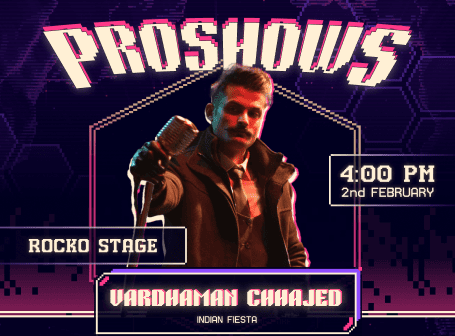
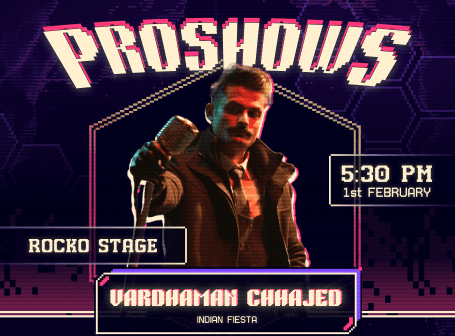
abhi bhi content pura nhi hua :(

diff --git a/src/app/events/proshows/page.jsx b/src/app/events/proshows/page.jsx
@@ -15,8 +15,8 @@ import ComingSoon from "../_Components/comingsoon";
 const images = [
   { src: "/events low res/proshows 1.png", day:"Day 2 - Crescendo", location: "Rocko Stage",loaclink:"https://www.google.com/maps/place/Cricket+Field,+Amingaon,+Guwahati,+Namati+Jalah,+Assam+781039/@26.189375,91.6927851,16.55z/data=!4m6!3m5!1s0x375a5ae98eaac1d3:0xb81bf49e19c882c6!8m2!3d26.1906031!4d91.6970283!16s%2Fg%2F11b8th1twm?entry=ttu&g_ep=EgoyMDI1MDEyNi4wIKXMDSoASAFQAw%3D%3D", name: "Caracal",time: "1 Feb, 4:30 PM", description: "Brace yourself for an electrifying night as Caracal Band sets the stage on fire with their high-energy performance. Get lost in their powerful riffs, intense beats, and mesmerizing melodies! 🎸" },
   { src: "/events low res/proshows 2.png", day:"Day 3 - Blitzkrieg", location: "Rocko Stage",loaclink:"https://www.google.com/maps/place/Cricket+Field,+Amingaon,+Guwahati,+Namati+Jalah,+Assam+781039/@26.189375,91.6927851,16.55z/data=!4m6!3m5!1s0x375a5ae98eaac1d3:0xb81bf49e19c882c6!8m2!3d26.1906031!4d91.6970283!16s%2Fg%2F11b8th1twm?entry=ttu&g_ep=EgoyMDI1MDEyNi4wIKXMDSoASAFQAw%3D%3D", name: "Black Rhythm",time: "2 Feb, 4:00 PM", description: "Get ready for an electrifying performance by Black Rhythm, a powerhouse of music and energy. Their dynamic beats and captivating stage presence will leave you grooving to an unforgettable rhythm!" },
-  { src: "/events low res/proshows 3.png", day:"Day 3 - Blitzkrieg", location: "Rocko Stage",loaclink:"https://www.google.com/maps/place/Cricket+Field,+Amingaon,+Guwahati,+Namati+Jalah,+Assam+781039/@26.189375,91.6927851,16.55z/data=!4m6!3m5!1s0x375a5ae98eaac1d3:0xb81bf49e19c882c6!8m2!3d26.1906031!4d91.6970283!16s%2Fg%2F11b8th1twm?entry=ttu&g_ep=EgoyMDI1MDEyNi4wIKXMDSoASAFQAw%3D%3D", name: "Vardhaman Chhajed",time: "2 Feb, 4:00 PM", description: "Witness a mesmerizing performance by Vardhaman Chajjer, a musical talent known for his soulful melodies and captivating stage presence. Let his enchanting tunes take you on an unforgettable musical journey" },
-  { src: "/events low res/proshows 4.png", day:"Day 3 - Blitzkrieg", location: "Rocko Stage",loaclink:"https://www.google.com/maps/place/Cricket+Field,+Amingaon,+Guwahati,+Namati+Jalah,+Assam+781039/@26.189375,91.6927851,16.55z/data=!4m6!3m5!1s0x375a5ae98eaac1d3:0xb81bf49e19c882c6!8m2!3d26.1906031!4d91.6970283!16s%2Fg%2F11b8th1twm?entry=ttu&g_ep=EgoyMDI1MDEyNi4wIKXMDSoASAFQAw%3D%3D", name: "Shaurya Mehta",time: "2 Feb, 4:00 PM", description: "Explore a literary wonderland at Alcheringa's Book Fair, where you’ll find books from all genres. From captivating fiction to insightful non-fiction, there's something for every reader. Meet authors, discover new releases, and indulge in your love for books. A paradise for book enthusiasts! 📚✨" },
+  { src: "/events low res/proshows 3.png", day:"Day 2 - Crescendo", location: "Rocko Stage",loaclink:"https://www.google.com/maps/place/Cricket+Field,+Amingaon,+Guwahati,+Namati+Jalah,+Assam+781039/@26.189375,91.6927851,16.55z/data=!4m6!3m5!1s0x375a5ae98eaac1d3:0xb81bf49e19c882c6!8m2!3d26.1906031!4d91.6970283!16s%2Fg%2F11b8th1twm?entry=ttu&g_ep=EgoyMDI1MDEyNi4wIKXMDSoASAFQAw%3D%3D", name: "Vardhaman Chhajed",time: "1 Feb, 5:30 PM", description: "Witness a mesmerizing performance by Vardhaman Chajjer, a musical talent known for his soulful melodies and captivating stage presence. Let his enchanting tunes take you on an unforgettable musical journey" },
+  { src: "/events low res/proshows 4.png", day:"Day 2 - Crescendo", location: "Rocko Stage",loaclink:"https://www.google.com/maps/place/Cricket+Field,+Amingaon,+Guwahati,+Namati+Jalah,+Assam+781039/@26.189375,91.6927851,16.55z/data=!4m6!3m5!1s0x375a5ae98eaac1d3:0xb81bf49e19c882c6!8m2!3d26.1906031!4d91.6970283!16s%2Fg%2F11b8th1twm?entry=ttu&g_ep=EgoyMDI1MDEyNi4wIKXMDSoASAFQAw%3D%3D", name: "Shaurya Mehta",time: "2 Feb", description: "Explore a literary wonderland at Alcheringa's Book Fair, where you’ll find books from all genres. From captivating fiction to insightful non-fiction, there's something for every reader. Meet authors, discover new releases, and indulge in your love for books. A paradise for book enthusiasts! 📚✨" },
 ];
 const event = [
   { name: "Proshows", topsubheading: "Flickeringa", contents: "Lorem ipsum dolor sit amet consectetur adipisicing elit. Rerum praesentium, consectetur quaerat illum labore reiciendis odit pariatur eligendi fuga quis optio provident dolorum recusandae et sed autem in iusto sequi." },

diff --git a/src/app/events/_Components/page.jsx b/src/app/events/_Components/page.jsx
@@ -9,7 +9,7 @@ import Link from "next/link";
 import image1 from "./image1.png";
 import image2 from "./image2.png";
 import image3 from "./coming.png";
-import image4 from "./coming.png";
+// import image4 from "/events low res/CD - Events.png";
 import image5 from "./coming.png";
 
 import enter from "./Group39.svg";
@@ -19,8 +19,8 @@ const images = [
   { src: image1, name: "Pronites",link: "/events/pronites", description: "Pronites are the ultimate music experience, featuring electrifying performances by top artists and bands. Get ready for four unforgettable nights of music, dance, and pure energy!" },
   { src: image2, name: "Proshows",link: "/events/proshows", description: "Proshows bring together breathtaking acts and spellbinding performances by world-class entertainers. From jaw-dropping stunts to mesmerizing displays, these shows are bound to leave you awestruck!" },
   { src: image3, name: "Creator's Camp",link: "/events/creators_camp", description: "Creator’s Camp is the hub for innovation and creativity, offering hands-on workshops and insightful sessions with industry experts. Unleash your imagination and learn from the best!" },
-  { src: image4, name: "Critical Damage",link: "/events/critical_damage", description: "Critical Damage is where the energy hits the roof with adrenaline-pumping gaming battles and esports tournaments. Challenge yourself and prove your dominance in this ultimate gaming arena!" },
-  { src: image5, name: "Flickeringa",link: "/events/flickeringa", description: "Flickeringa is the vibrant heart of Alcheringa, brimming with fun, excitement, and unforgettable experiences. Immerse yourself in a world of joy and let your spirit soar!" },
+  { src: "/events low res/CD - Events.png", name: "Critical Damage",link: "/events/critical_damage", description: "Critical Damage is where the energy hits the roof with adrenaline-pumping gaming battles and esports tournaments. Challenge yourself and prove your dominance in this ultimate gaming arena!" },
+  { src: "/events low res/Flickeringa - Events.png", name: "Flickeringa",link: "/events/flickeringa", description: "Flickeringa is the vibrant heart of Alcheringa, brimming with fun, excitement, and unforgettable experiences. Immerse yourself in a world of joy and let your spirit soar!" },
 ];
 
 
@@ -81,7 +81,7 @@ export default function Page() {
             </p>
           </div>
           <div>
-          {(currentIndex === 0||currentIndex === 1) && (
+          
           <Link className={styles.enter} href={images[currentIndex].link}>
             <Image
               src={enter}
@@ -90,7 +90,7 @@ export default function Page() {
               alt="enter button"
             />
           </Link>
-          )}
+          
           </div>
         </div>
         <div className={styles.center}>
@@ -167,7 +167,7 @@ export default function Page() {
                   <p className={styles.descriptionTxt}>{image.description}</p>
                 </div>
                 
-                {(index === 0||index === 1) && (
+               
                 <div className={styles.lower}>
                   <Link className={styles.enter} href={image.link}>
                     <Image
@@ -178,7 +178,6 @@ export default function Page() {
                     />
                   </Link>
                   </div>
-                  )}
                 
               </div>
             ))}

diff --git a/src/app/events/critical_damage/page.jsx b/src/app/events/critical_damage/page.jsx
@@ -12,10 +12,11 @@ import google from "./component/googlelink.svg";
 import frame from "./component/Frame51-o.svg";
 import clock from "./component/Time_light.svg"
 const images = [
-  { src: "/events low res/CD 1.png", day:"Day 2 - Crescendo", location: "Rocko Stage",loaclink:"", name: "Caracal",time: "1 Feb, 4:30 PM", description: "" },
-  { src: "/events low res/CD 2.png", day:"Day 3 - Blitzkrieg", location: "Rocko Stage",loaclink:"", name: "Black Rhythm",time: "2 Feb, 4:00 PM", description: "" },
-  { src: "/events low res/CD 3.png", day:"Day 2 - Crescendo", location: "Rocko Stage",loaclink:"", name: "Vardhaman Chhajed",time: "2 Feb, 4:00 PM", description: "" },
-  { src: "/events low res/CD 4.png", day:"Day 3 - Blitzkrieg", location: "Rocko Stage",loaclink:"", name: "Arjit Singh",time: "2 Feb, 4:00 PM", description: "" },
+  { src: "/events low res/CD 1.png", day:"Day 2 - Crescendo", location: "Online",loaclink:"", name: "BGMI",time: "1 Feb, 4:30 PM", description: "Drop in, loot up, and battle your way to victory! Test your reflexes and strategy in the ultimate battleground where only the strongest survive. Are you ready to claim the Winner Winner Chicken Dinner?" },
+  { src: "/events low res/CD 2.png", day:"Day 3 - Blitzkrieg", location: "Online",loaclink:"", name: "Bullet Echo",time: "2 Feb, 4:00 PM", description: "Stealth, strategy, and sharp shooting collide in this thrilling top-down tactical shooter. Work with your squad, outsmart your enemies, and light up the battlefield—only the best will echo in victory!" },
+  { src: "/events low res/CD 3.png", day:"Day 2 - Crescendo", location: "Online",loaclink:"", name: "Road To Valor",time: "2 Feb, 4:00 PM", description: "Command legendary warriors and clash in epic battles! Build your army, strategize like a true general, and crush your foes to claim the path of glory."},
+  { src: "/events low res/CD 4.png", day:"Day 3 - Blitzkrieg", location: "Online",loaclink:"", name: "Real Cricket 24",time: "2 Feb, 4:00 PM", description: "Experience the thrill of cricket like never before! With realistic gameplay and intense matches, step onto the pitch and prove your skills as the ultimate cricket champion." },
+  { src: "/events low res/CD 4.png", day:"Day 3 - Blitzkrieg", location: "Online",loaclink:"", name: "Cookie Run India",time: "2 Feb, 4:00 PM", description: " Run, jump, and slide through a world of sweet surprises! Master tricky obstacles, race against rivals, and bake your way to victory in this deliciously fast-paced adventure." },
 ];
 const event = [
   { name: "Critical Damage", topsubheading: "Flickeringa", contents: "Lorem ipsum dolor sit amet consectetur adipisicing elit. Rerum praesentium, consectetur quaerat illum labore reiciendis odit pariatur eligendi fuga quis optio provident dolorum recusandae et sed autem in iusto sequi." },

diff --git a/src/app/events/creators_camp/component/style.module.css b/src/app/events/creators_camp/component/style.module.css
@@ -9,6 +9,7 @@
     color: #FFEBD3;
     font-family: "gameTape";
     padding-bottom: 20px;
+    padding-top: 3vw;
 }
 .event{
     display: flex;

diff --git a/src/app/events/critical_damage/component/style.module.css b/src/app/events/critical_damage/component/style.module.css
@@ -9,6 +9,7 @@
     color: #FFEBD3;
     font-family: "gameTape";
     padding-bottom: 20px;
+    padding-top: 3vw;
 }
 .event{
     display: flex;
